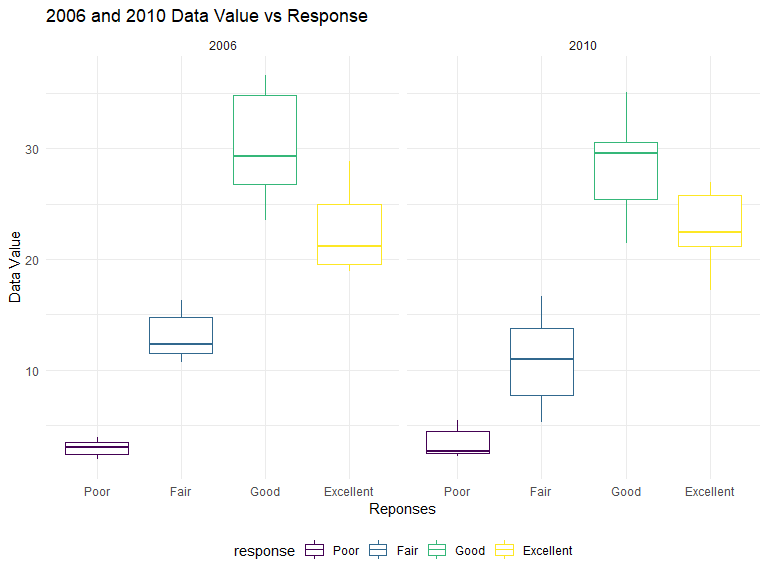
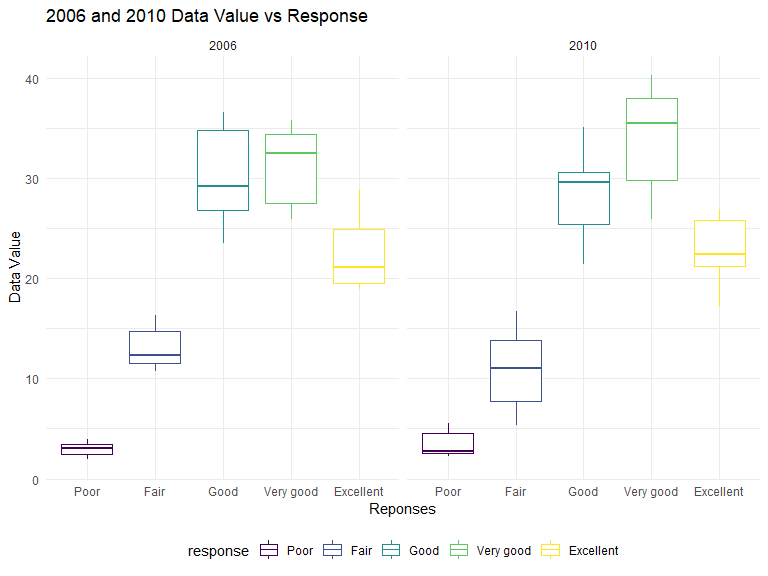
Hw3 P8105 Final Version

diff --git a/p8105_hw3_yy3295.md b/p8105_hw3_yy3295.md
@@ -137,7 +137,7 @@ brfss_df <-
   brfss_smart2010 |>
   rename(State = Locationabbr, Location = Locationdesc) |>
   janitor::clean_names() |>
-  filter(topic == "Overall Health", response %in% c("Poor", "Fair", "Good", "Very Good", "Excellent")) |>
+  filter(topic == "Overall Health", response %in% c("Poor", "Fair", "Good", "Very good", "Excellent")) |>
   mutate(response = factor(response, levels = c("Poor", "Fair", "Good", "Very good", "Excellent"), ordered = TRUE))
 ```
 
@@ -221,7 +221,9 @@ brfss_df_new |>
 ```
 
 <img src="p8105_hw3_yy3295_files/figure-gfm/unnamed-chunk-9-1.png" width="90%" />
-From this plot we
+From this plot of average value over time within states, we can learn
+that the majority of the mean data values lies within 20-25. There is no
+significant trends of average value over time between the states.
 
 Make a two-panel plot showing, for the years 2006, and 2010,
 distribution of data_value for responses (“Poor” to “Excellent”) among
@@ -241,6 +243,10 @@ brfss_df |>
 ```
 
 <img src="p8105_hw3_yy3295_files/figure-gfm/unnamed-chunk-10-1.png" width="90%" />
+From the plot of 2006 and 2010 data values vs responses, we can learn
+that there is no significance difference of data value and responses
+between the year 2006 and year 2010. The poor group has the least data
+value and the very good group has the highest data value in both years.
 
 \#Problem 3 Load the data.
 
@@ -377,4 +383,6 @@ nhanes_merge_1 |>
 <img src="p8105_hw3_yy3295_files/figure-gfm/unnamed-chunk-15-1.png" width="90%" />
 From the plot of 24-hour activity time courses for each category level,
 we can learn that there is no significant difference of 24-hour activity
-time courses between all three education categories.
+time courses for all the less than high school group. For the high
+school equivalent and more than high school group, females tends to do
+more physical activities than males during the day time.
